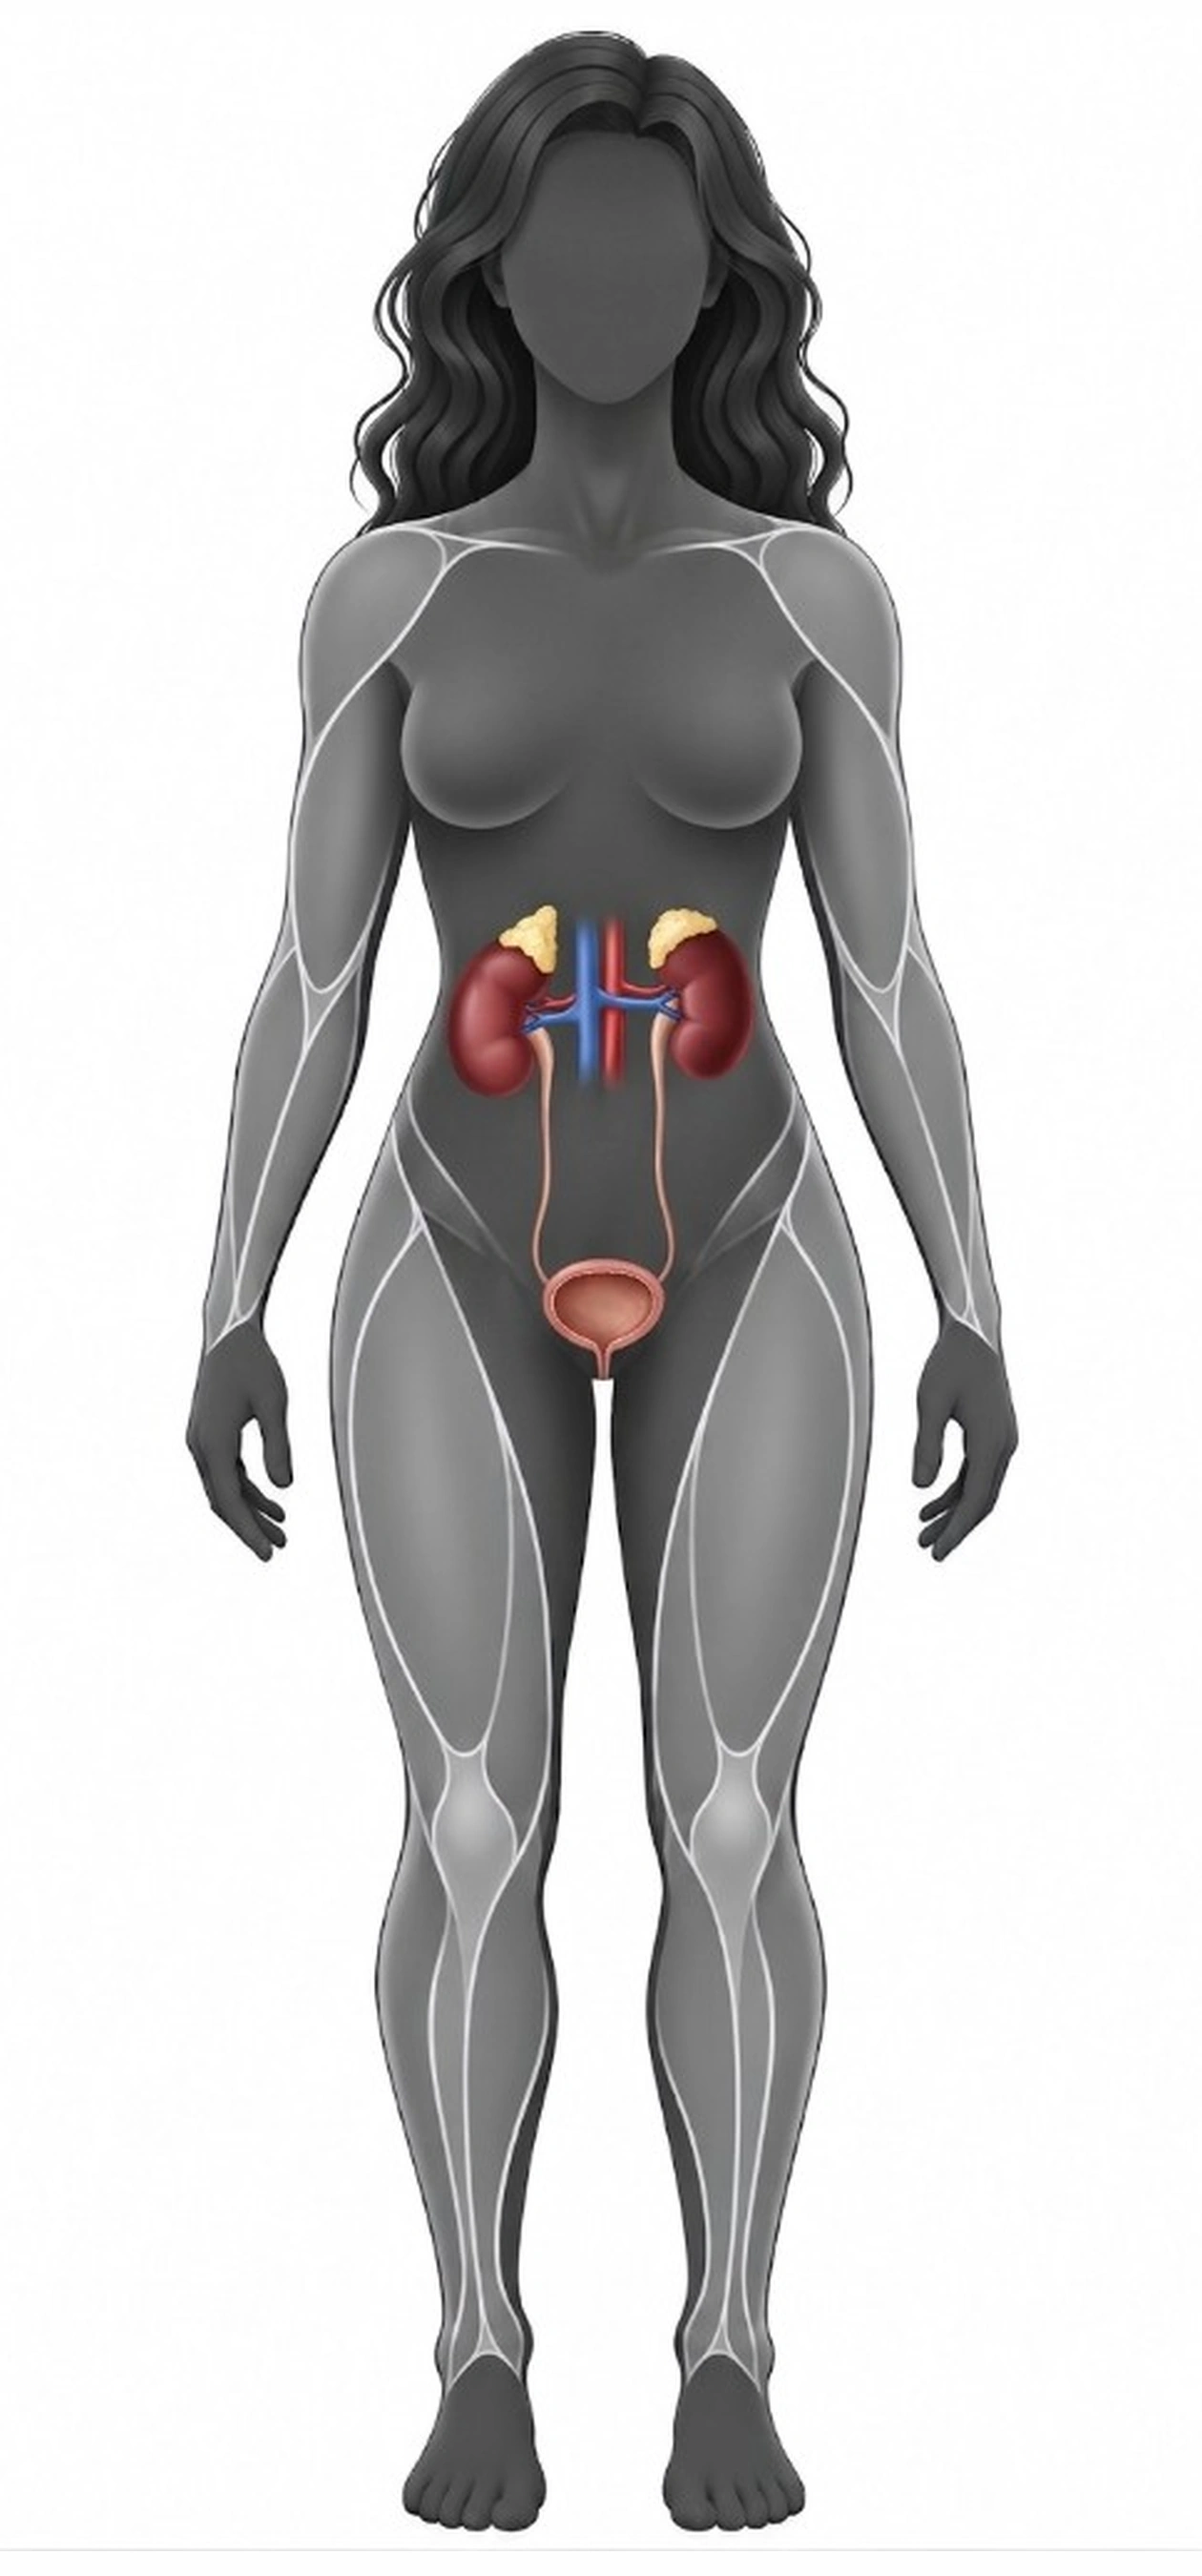
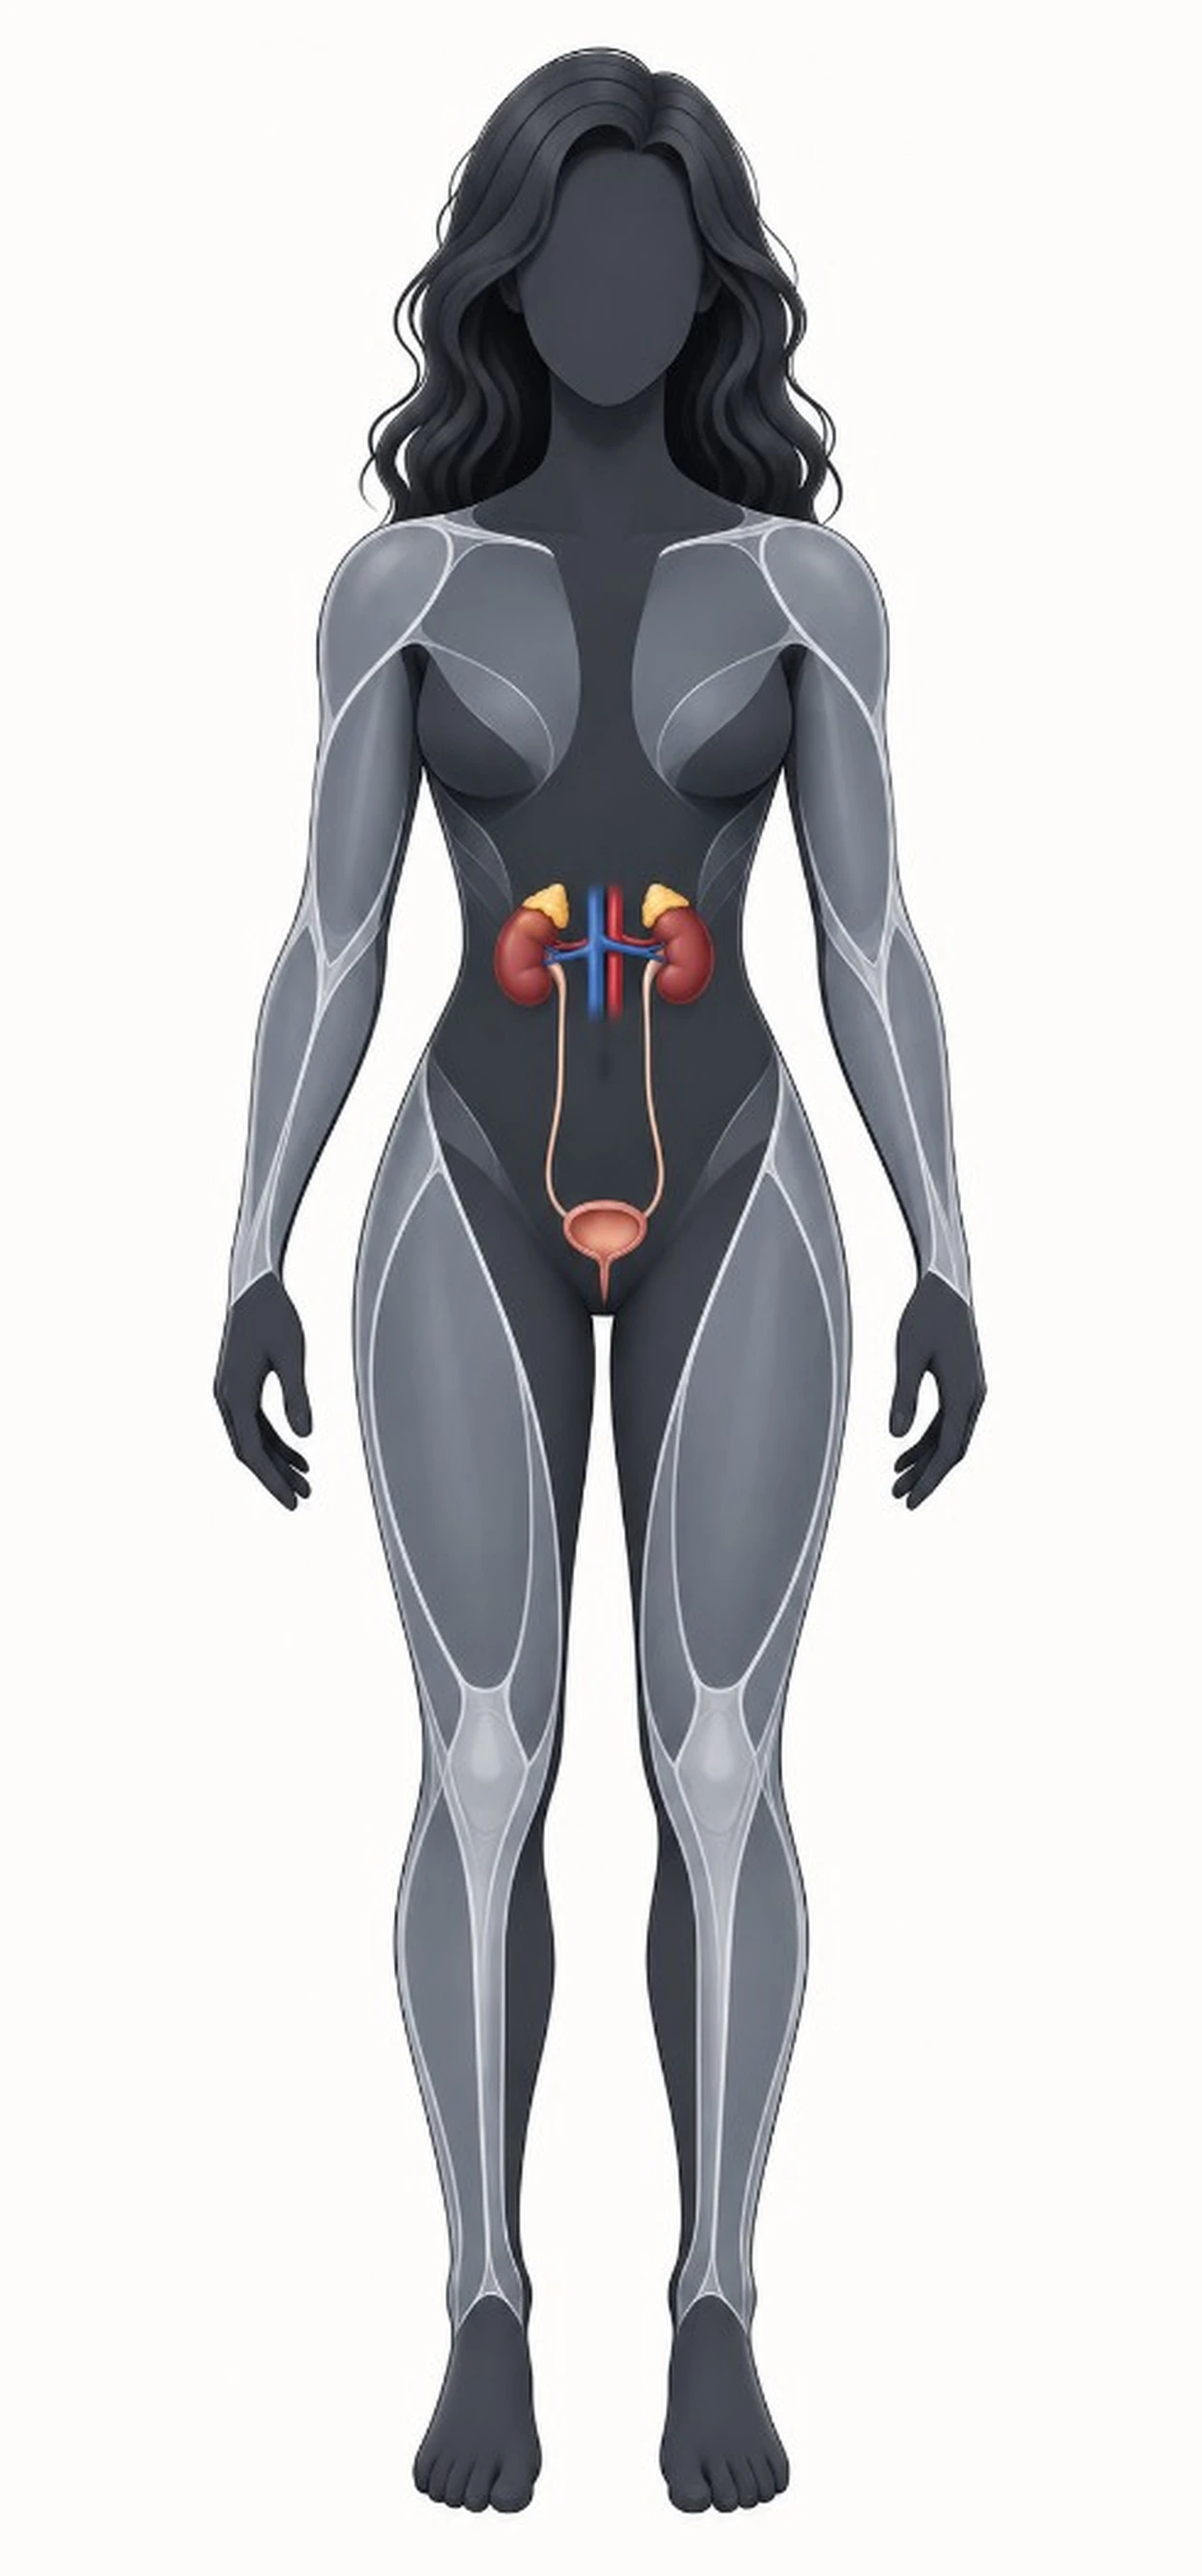
Update Urinary overlays to new female/male full-figure refs
Replace urinary front overlays with the latest medical illustrations
for admin and storefront parity, pointing catalogue defaults at v2.

Changed region(s): [[0.1548, 0.0, 0.8667, 0.9956]]

diff --git a/homeopathypharma/app/Services/HealthExplorerCatalog.php b/homeopathypharma/app/Services/HealthExplorerCatalog.php
@@ -230,10 +230,10 @@ class HealthExplorerCatalog
             $base['overlay_mode'] = 'full_figure';
             $base['overlays'] = [
                 'female' => [
-                    'front' => '/images/health-explorer/overlays/urinary-female-front-v1.webp',
+                    'front' => '/images/health-explorer/overlays/urinary-female-front-v2.webp',
                 ],
                 'male' => [
-                    'front' => '/images/health-explorer/overlays/urinary-male-front-v1.webp',
+                    'front' => '/images/health-explorer/overlays/urinary-male-front-v2.webp',
                 ],
             ];
         }
